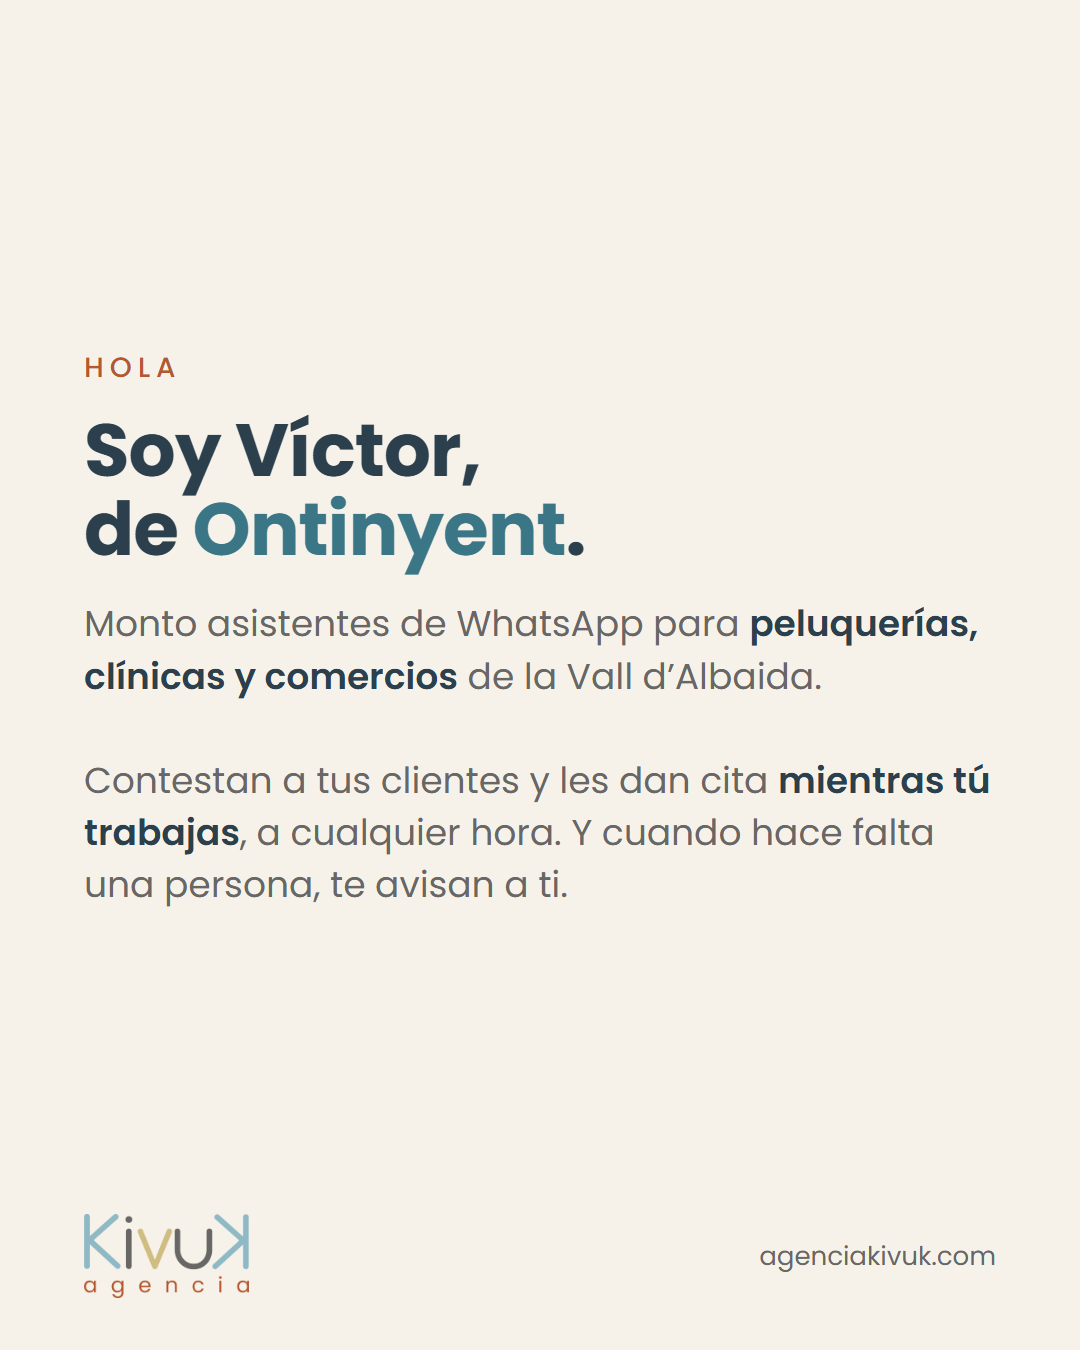
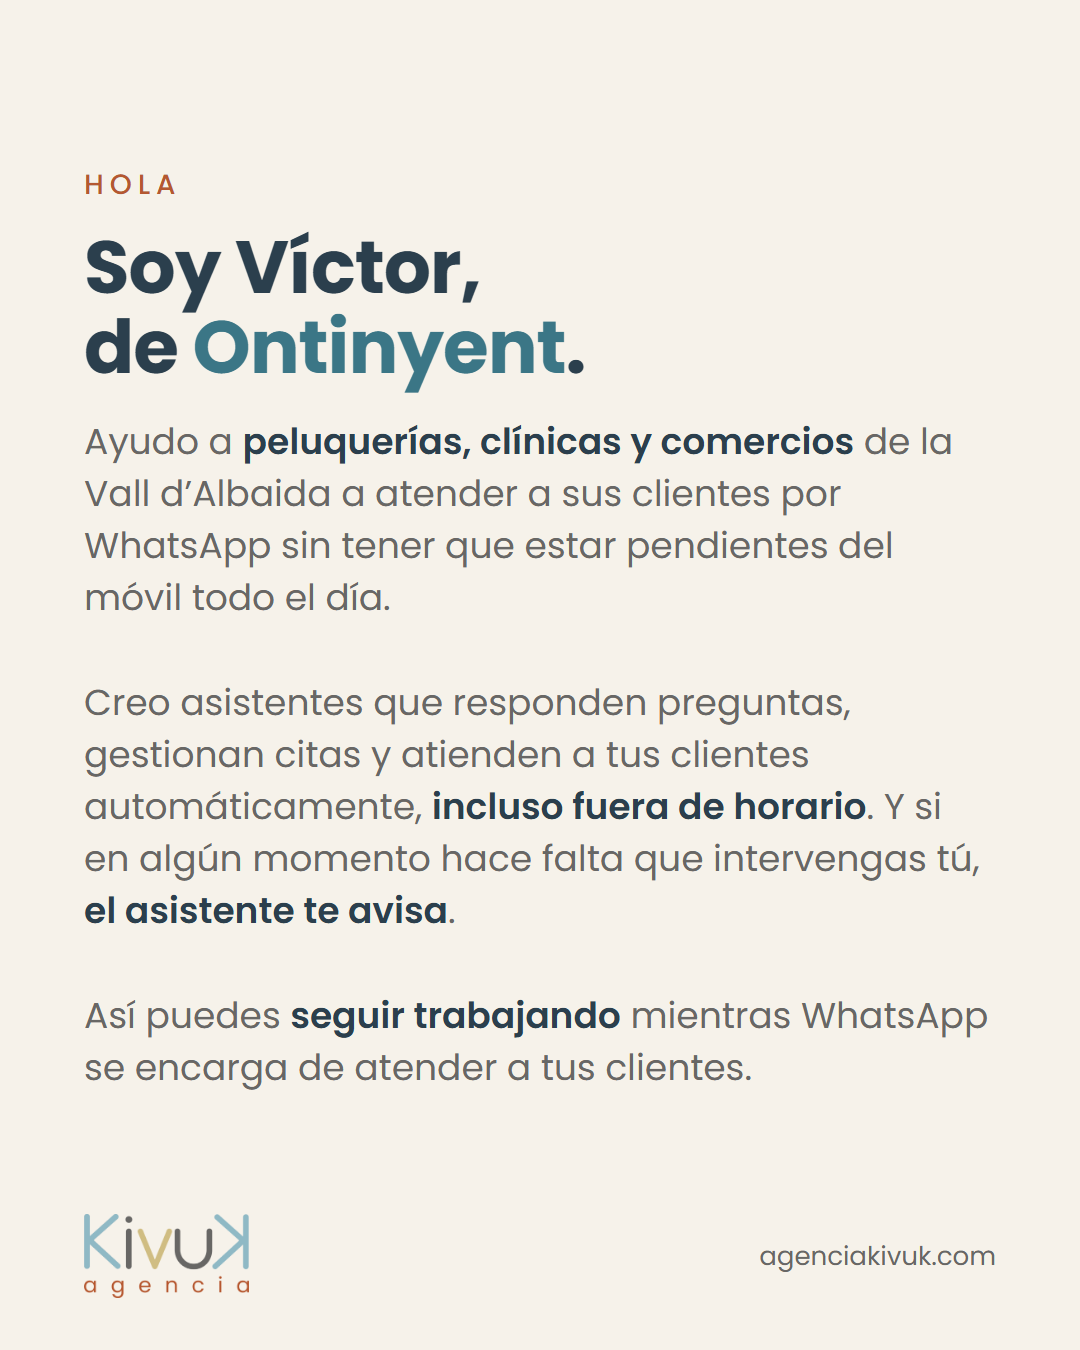
instagram: tarjeta de presentacion con el texto de Victor y sin 'enlace en la bio'
La bio no lleva a las demos, asi que las imagenes y los pies apuntan a agenciakivuk.com/#probar o dan los numeros directamente. El script puede generar solo las diapositivas que se le pidan.

Changed region(s): [[0.0611, 0.1244, 0.9167, 0.6844], [0.0611, 0.7467, 0.9167, 0.8089]]

diff --git a/scripts/generar-posts-instagram.js b/scripts/generar-posts-instagram.js
@@ -3,7 +3,8 @@
  * Genera las imágenes de las primeras publicaciones de @agenciakivuk en
  * docs/material-venta/instagram/, a 1080×1350 (el 4:5 del feed).
  *
- *   node scripts/generar-posts-instagram.js
+ *   node scripts/generar-posts-instagram.js                 (todas)
+ *   node scripts/generar-posts-instagram.js 1-quien-soy-2   (solo esa)
  *
  * Cada diapositiva es una página HTML que se fotografía con Edge (o Chrome) en
  * modo headless. Se hace así y no con SVG, como las tarjetas de las demos,
@@ -140,13 +141,17 @@ const MECHAS = 'Peluquería Mechas';
 const DIAPOSITIVAS = {
   // 1. Quién soy. La primera diapositiva es una foto de Víctor, que no sale de
   //    aquí; esta es la segunda.
+  //    El texto es de Víctor. Abajo, la web y no «enlace en la bio»: la bio no
+  //    siempre lleva a las demos, y la imagen no puede prometer lo que no hay.
   '1-quien-soy-2': pagina({
     eyebrow: 'Hola',
     titulo: 'Soy Víctor,<br>de <em>Ontinyent</em>.',
     texto:
-      'Monto asistentes de WhatsApp para <b>peluquerías, clínicas y comercios</b> de la Vall d’Albaida.<br><br>' +
-      'Contestan a tus clientes y les dan cita <b>mientras tú trabajas</b>, a cualquier hora. ' +
-      'Y cuando hace falta una persona, te avisan a ti.',
+      'Ayudo a <b>peluquerías, clínicas y comercios</b> de la Vall d’Albaida a atender a sus clientes por WhatsApp ' +
+      'sin tener que estar pendientes del móvil todo el día.<br><br>' +
+      'Creo asistentes que responden preguntas, gestionan citas y atienden a tus clientes automáticamente, ' +
+      '<b>incluso fuera de horario</b>. Y si en algún momento hace falta que intervengas tú, <b>el asistente te avisa</b>.<br><br>' +
+      'Así puedes <b>seguir trabajando</b> mientras WhatsApp se encarga de atender a tus clientes.',
     contenido: '',
   }),
 
@@ -206,7 +211,7 @@ const DIAPOSITIVAS = {
     titulo: 'Tienes una cita más en la agenda, y <em>no has tocado el móvil</em>.',
     texto:
       'Con tus precios.<br>Con los huecos reales de cada una.<br>Sin inventarse nada.<br><br>' +
-      '<b>Pruébalo tú: enlace en la bio.</b>',
+      '<b>Pruébalo tú en agenciakivuk.com/#probar</b>',
     paso: '4 / 4',
   }),
 
@@ -284,7 +289,7 @@ const DIAPOSITIVAS = {
         .map(([s, n, p]) => `<div class="tarjeta"><div class="sector">${s}</div><div class="num">${n}</div><div class="preg">${p}</div></div>`)
         .join('') +
       '</div>' +
-      '<div class="texto" style="margin-top:34px">Los negocios son inventados. <b>El asistente es el de verdad.</b> Enlace en la bio.</div>',
+      '<div class="texto" style="margin-top:34px">Los negocios son inventados. <b>El asistente es el de verdad.</b> También en agenciakivuk.com/#probar</div>',
   }),
 };
 
@@ -303,7 +308,12 @@ function main() {
   const esperar = (ms) => Atomics.wait(new Int32Array(new SharedArrayBuffer(4)), 0, 0, ms);
   const fallidas = [];
 
-  for (const [nombre, html] of Object.entries(DIAPOSITIVAS)) {
+  // Con nombres detrás (`node ... 1-quien-soy-2`), solo esas; sin nada, todas.
+  const pedidas = process.argv.slice(2);
+  const lista = Object.entries(DIAPOSITIVAS).filter(([n]) => !pedidas.length || pedidas.includes(n));
+  if (!lista.length) throw new Error(`no hay ninguna diapositiva llamada ${pedidas.join(', ')}`);
+
+  for (const [nombre, html] of lista) {
     const htmlRuta = path.join(tmp, `${nombre}.html`);
     const png = path.join(SALIDA, `${nombre}.png`);
     fs.writeFileSync(htmlRuta, html);

diff --git a/docs/material-venta/instagram/textos.md b/docs/material-venta/instagram/textos.md
@@ -64,14 +64,20 @@ La segunda imagen es `1-quien-soy-2.png`.
 
 **Pie de foto:**
 
+La presentación ya va en la imagen, así que el pie se centra en qué hacer:
+
 ```
-Soy Víctor, de Ontinyent 👋
+Si tienes un negocio en la Vall d'Albaida y se te escapan mensajes de WhatsApp mientras trabajas, esto es para ti 👋
 
-Monto asistentes de WhatsApp para peluquerías, clínicas y comercios de la Vall d'Albaida.
+¿Quieres ver cómo contesta un asistente? Escríbele a una de estas demos como si fueras un cliente:
 
-Contestan a tus clientes y les dan cita mientras tú estás trabajando, a las once de la noche o un domingo. Con tus precios y con los huecos reales de tu agenda. Y cuando hace falta una persona, te avisan a ti.
+💇 Peluquería: 623 79 03 43
+🦷 Clínica dental: 613 01 39 79
+💆 Fisioterapia: 623 81 47 87
 
-Estos días me vas a ver por los comercios de Ontinyent. Si te paso por delante, pregúntame 😊
+Los negocios son inventados; el asistente es el de verdad.
+
+Y si prefieres hablarlo en persona, escríbeme. Estos días estoy pasando por los comercios de Ontinyent ☕
 
 #Ontinyent #ValldAlbaida #ComercioLocal #WhatsApp
 ```
@@ -91,7 +97,7 @@ Tu salón está cerrado. El asistente, no: le dice los precios, le ofrece los hu
 
 A la mañana siguiente tienes una cita más y no has tocado el móvil.
 
-Pruébalo tú: el enlace está en la bio. Es una peluquería inventada, pero el asistente es el de verdad.
+Pruébalo tú: escríbele al 623 79 03 43 o entra en agenciakivuk.com/#probar. Es una peluquería inventada, pero el asistente es el de verdad.
 
 #Peluquería #Ontinyent #ValldAlbaida #CitasOnline #WhatsApp
 ```
@@ -151,7 +157,7 @@ Todas las conversaciones están ahí: las que ha llevado él y las que has lleva
 
 Los negocios son inventados. El asistente es el mismo que monto para un negocio de verdad: pregúntale precios, pide cita o dile que quieres hablar con alguien.
 
-Desde el móvil, en el enlace de la bio se abren directamente.
+Desde el móvil, en agenciakivuk.com/#probar se abren directamente.
 
 #Ontinyent #ValldAlbaida #ComercioLocal #WhatsApp
 ```
